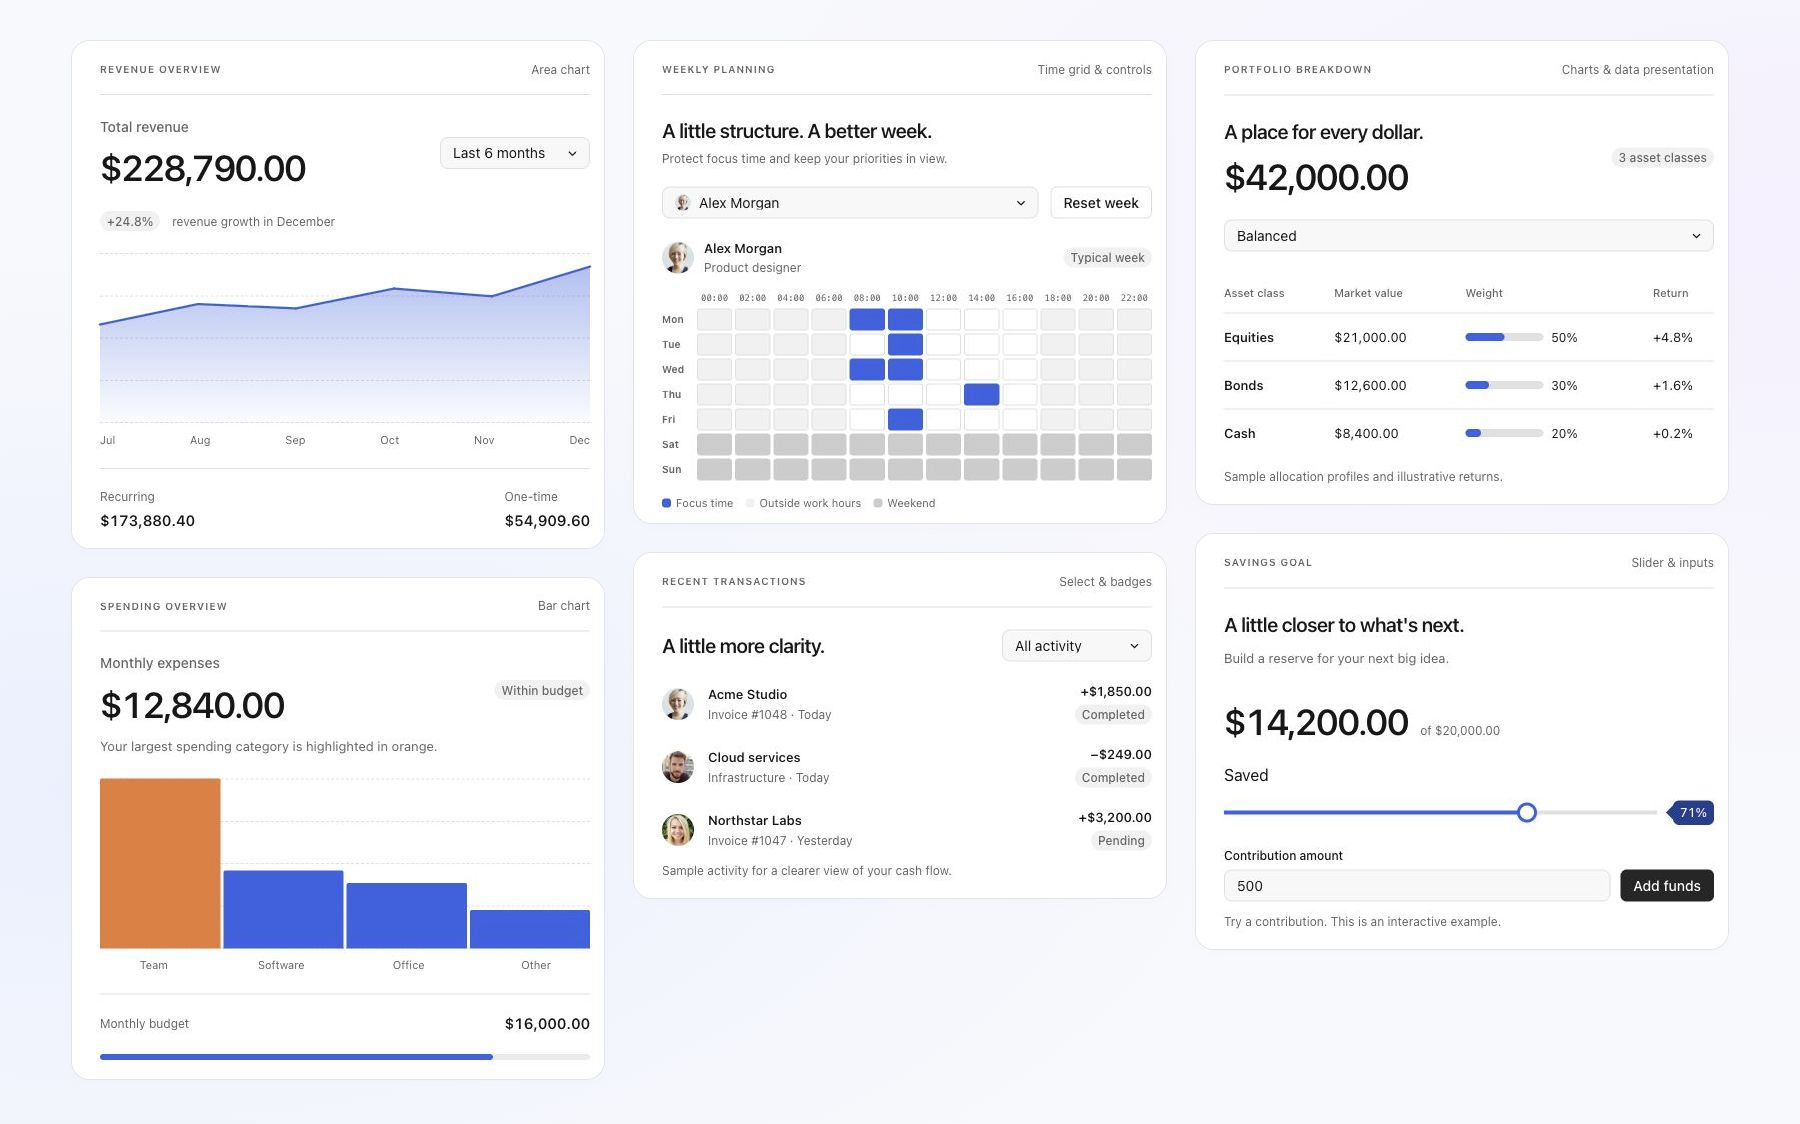
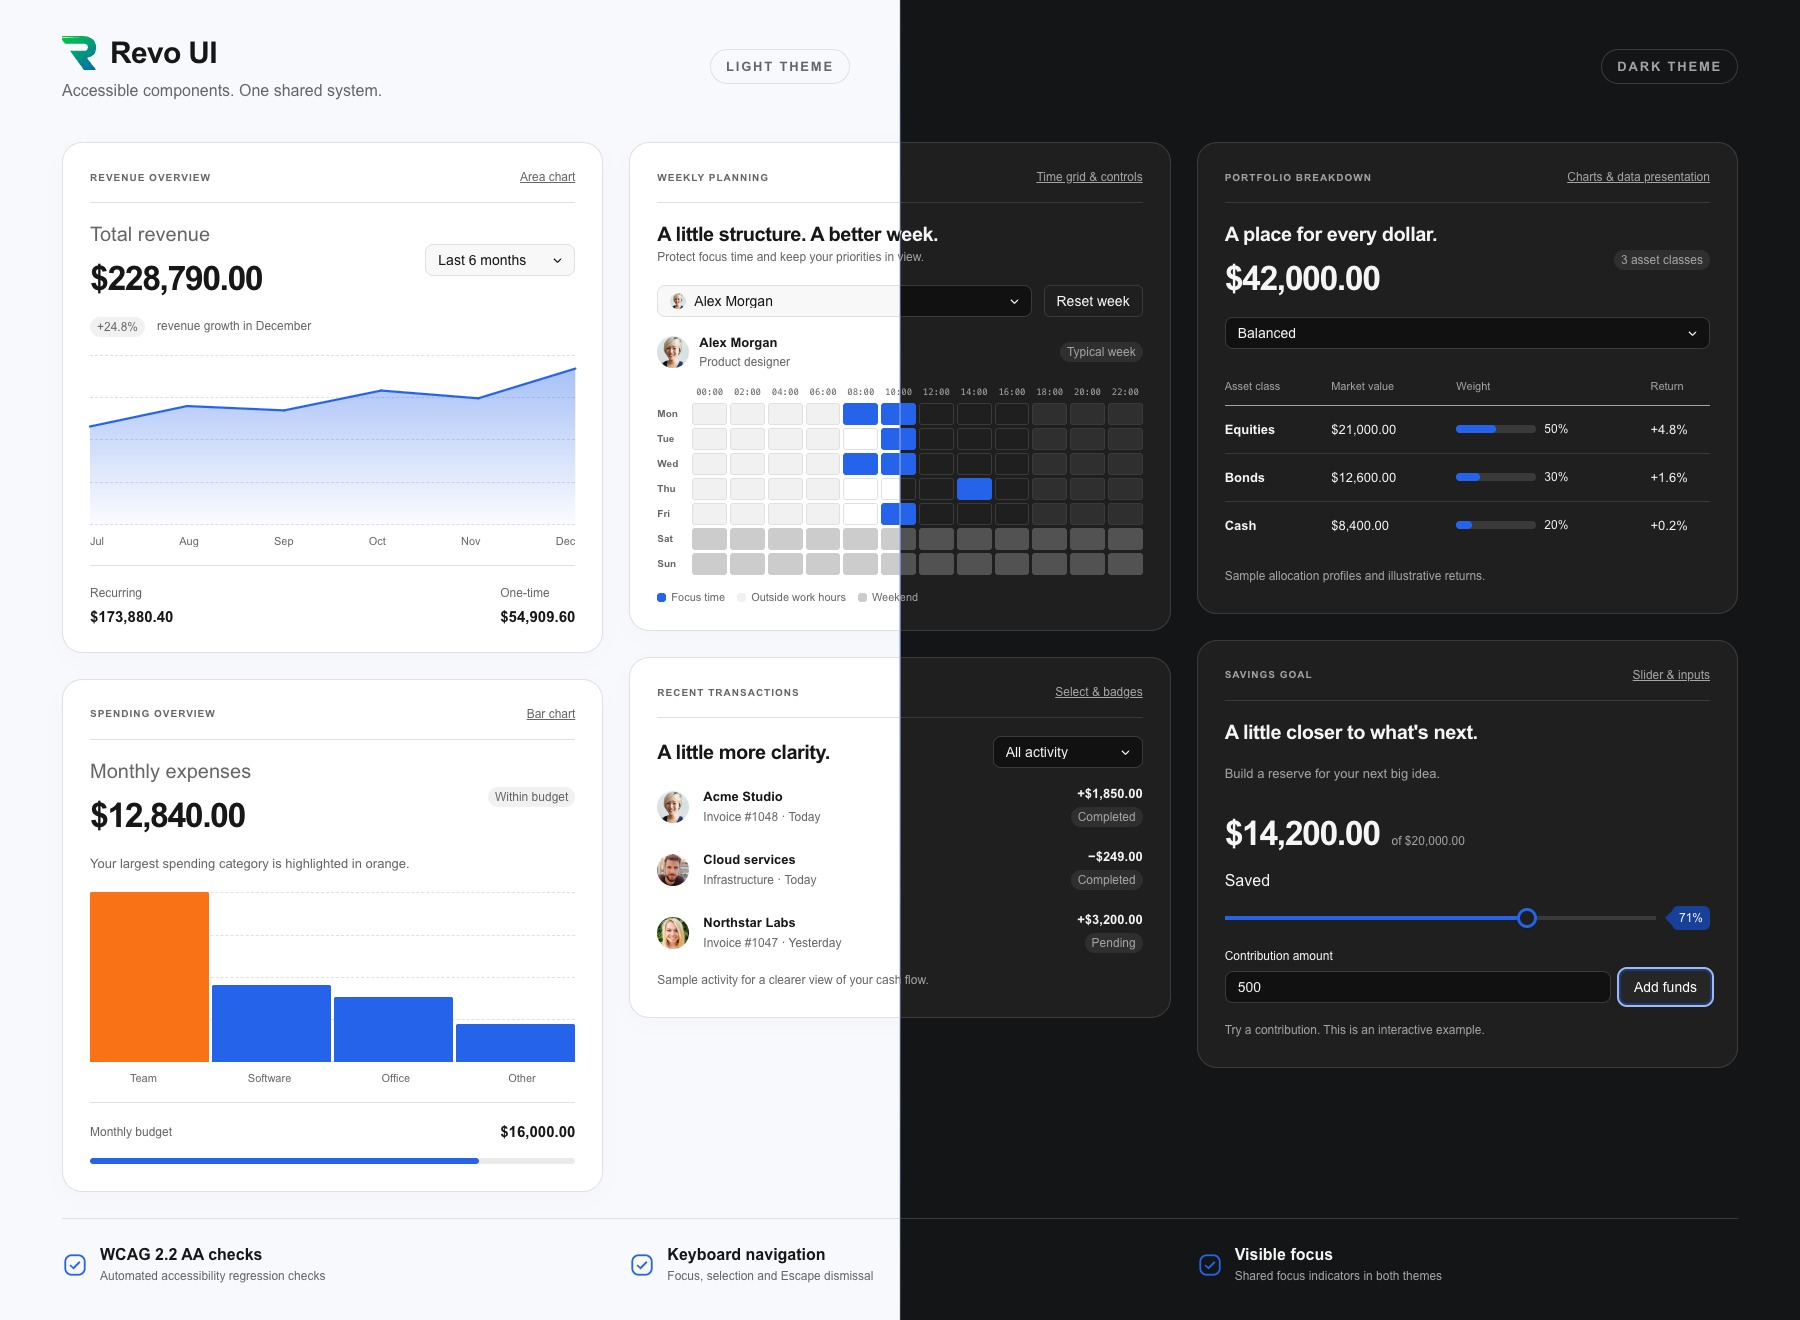
docs: show split themes and accessibility in README preview (#22)

diff --git a/scripts/readme-preview.html b/scripts/readme-preview.html
@@ -1,0 +1,242 @@
+<!doctype html>
+<html lang="en">
+  <head>
+    <meta charset="UTF-8" />
+    <title>Revo UI README preview</title>
+    <link rel="icon" href="/favicon.svg" />
+    <style>
+      html,
+      body {
+        margin: 0;
+        width: 1800px;
+        height: 1320px;
+        overflow: hidden;
+      }
+      .preview-half {
+        position: absolute;
+        inset: 0;
+        width: 1800px;
+        height: 1320px;
+        font-family: Inter, Arial, sans-serif;
+        color: var(--rv-ui-text);
+        background: var(--rv-ui-surface);
+      }
+      .preview-half.light {
+        background: #f7f9fd;
+        clip-path: inset(0 50% 0 0);
+      }
+      .preview-half.dark {
+        background: #141517;
+        clip-path: inset(0 0 0 50%);
+      }
+      .preview-header {
+        height: 132px;
+        padding: 32px 62px;
+        box-sizing: border-box;
+        display: flex;
+        align-items: center;
+        justify-content: space-between;
+      }
+      .preview-brand {
+        display: flex;
+        align-items: center;
+        gap: 14px;
+        font-size: 30px;
+        font-weight: 650;
+        letter-spacing: -0.7px;
+      }
+      .preview-brand img {
+        width: 34px;
+        height: 40px;
+      }
+      .preview-subtitle {
+        font-size: 16px;
+        color: var(--rv-ui-text-muted);
+        margin-top: 9px;
+        letter-spacing: 0;
+        font-weight: 400;
+      }
+      .preview-theme {
+        border: 1px solid var(--rv-ui-border);
+        padding: 9px 15px;
+        border-radius: 24px;
+        color: var(--rv-ui-text-muted);
+        font-size: 13px;
+        letter-spacing: 1.8px;
+        font-weight: 600;
+      }
+      .preview-grid {
+        position: absolute;
+        top: 142px;
+        left: 62px;
+        right: 62px;
+        display: grid;
+        grid-template-columns: repeat(3, minmax(0, 1fr));
+        gap: 26px;
+      }
+      .preview-stack {
+        display: flex;
+        flex-direction: column;
+        gap: 26px;
+        min-width: 0;
+      }
+      .preview-grid .home-widget {
+        border-color: color-mix(in srgb, var(--rv-ui-text) 13%, transparent);
+        padding: 27px;
+        gap: 18px;
+        border-radius: 20px;
+        box-shadow: 0 6px 24px #00000004;
+      }
+      .preview-grid .home-weekly-planner {
+        width: auto;
+        min-width: 0;
+        margin: 0;
+        --rv-matrix-cell-height: 22px;
+      }
+      .preview-grid .planning-summary {
+        display: none;
+      }
+      .preview-grid p,
+      .preview-grid h3 {
+        margin: 0;
+      }
+      .preview-grid .finance-amount {
+        font-size: 34px;
+      }
+      .preview-grid .home-widget h3 {
+        font-size: 20px;
+      }
+      .preview-grid .finance-revenue,
+      .preview-grid .finance-spending {
+        min-height: 414px;
+        box-sizing: border-box;
+      }
+      .preview-grid .finance-spending {
+        min-height: 410px;
+      }
+      .preview-grid .finance-savings {
+        min-height: 405px;
+        box-sizing: border-box;
+      }
+      .preview-grid .finance-allocation {
+        min-height: 415px;
+        box-sizing: border-box;
+      }
+      .preview-footer {
+        position: absolute;
+        bottom: 37px;
+        left: 62px;
+        right: 62px;
+        border-top: 1px solid var(--rv-ui-border);
+        padding-top: 27px;
+        display: grid;
+        grid-template-columns: repeat(3, 1fr);
+        gap: 26px;
+      }
+      .preview-feature {
+        display: flex;
+        align-items: center;
+        gap: 12px;
+        font-size: 16px;
+        font-weight: 600;
+      }
+      .preview-feature svg {
+        width: 26px;
+        height: 26px;
+        color: var(--rv-ui-accent, #2563eb);
+        flex-shrink: 0;
+      }
+      .preview-feature small {
+        display: block;
+        font-size: 12px;
+        font-weight: 400;
+        color: var(--rv-ui-text-muted);
+        margin-top: 5px;
+      }
+      .preview-divider {
+        position: absolute;
+        z-index: 5;
+        left: 899px;
+        top: 0;
+        width: 2px;
+        height: 1320px;
+        background: linear-gradient(#8f9ab244, #91aaffaa 45%, #8f9ab244);
+      }
+      #source {
+        position: absolute;
+        left: -10000px;
+        width: 1800px;
+        height: 1500px;
+        border: 0;
+      }
+    </style>
+  </head>
+  <body>
+    <iframe id="source" title="Gallery components" src="/"></iframe>
+    <div class="preview-divider"></div>
+    <script type="module">
+      const frame = document.getElementById("source");
+      frame.inert = true;
+      await new Promise((resolve) =>
+        frame.addEventListener("load", resolve, { once: true }),
+      );
+      const source = frame.contentDocument;
+      while (!source.querySelector(".finance-savings"))
+        await new Promise((resolve) => setTimeout(resolve, 20));
+      const captureStyle = document.head.querySelector("style");
+      for (const style of source.querySelectorAll(
+        'style, link[rel="stylesheet"]',
+      ))
+        document.head.append(style.cloneNode(true));
+      document.head.append(captureStyle);
+      const check =
+        '<svg viewBox="0 0 24 24" fill="none" stroke="currentColor" stroke-width="1.7"><rect x="3" y="3" width="18" height="18" rx="6"/><path d="m7.5 12 3 3 6-6"/></svg>';
+      const footer = `<footer class="preview-footer">
+      <div class="preview-feature">${check}<span>WCAG 2.2 AA checks<small>Automated accessibility regression checks</small></span></div>
+      <div class="preview-feature">${check}<span>Keyboard navigation<small>Focus, selection and Escape dismissal</small></span></div>
+      <div class="preview-feature">${check}<span>Visible focus<small>Shared focus indicators in both themes</small></span></div>
+    </footer>`;
+      const columns = [
+        [".finance-revenue", ".finance-spending"],
+        [".home-weekly-planner", ".finance-recent"],
+        [".finance-allocation", ".finance-savings"],
+      ];
+      for (const theme of ["light", "dark"]) {
+        const panel = document.createElement("section");
+        panel.className = `rv-ui preview-half ${theme}`;
+        panel.dataset.theme = theme;
+        panel.innerHTML = `<header class="preview-header"><div><div class="preview-brand"><img src="/favicon.svg" alt="">Revo UI</div><div class="preview-subtitle">Accessible components. One shared system.</div></div><span class="preview-theme">DARK THEME</span></header><div class="preview-grid"></div>${footer}`;
+        const grid = panel.querySelector(".preview-grid");
+        for (const selectors of columns) {
+          const stack = document.createElement("div");
+          stack.className = "preview-stack";
+          for (const selector of selectors) {
+            const original = source.querySelector(selector);
+            if (!original)
+              throw new Error(`Missing gallery specimen: ${selector}`);
+            stack.append(original.cloneNode(true));
+          }
+          grid.append(stack);
+        }
+        document.body.append(panel);
+      }
+      // Keep a visible theme label on each side of the center split.
+      const light = document.querySelector(
+        ".preview-half.light .preview-header",
+      );
+      light.insertAdjacentHTML(
+        "beforeend",
+        '<span class="preview-theme" style="position:absolute;left:710px">LIGHT THEME</span>',
+      );
+      // Demonstrate the library's real keyboard focus treatment on the dark half.
+      document
+        .querySelector(".preview-half.dark .finance-contribution button")
+        ?.focus({ preventScroll: true });
+      await document.fonts.ready;
+      await Promise.all(
+        [...document.images].map((image) => image.decode().catch(() => {})),
+      );
+      document.body.dataset.ready = "true";
+    </script>
+  </body>
+</html>

diff --git a/docs/gallery-development.md b/docs/gallery-development.md
@@ -68,3 +68,18 @@ Prerendering waits for rendered headings, canonical metadata, loaded API section
 - `pnpm test:discovery`: verify suite ownership and discovery.
 
 All specs and fixtures live in `tests/browser/`. Product-feedback tests that depend on private products remain in the parent monorepo.
+
+## README preview image
+
+The README image uses real gallery components, split into light and dark themes. `scripts/readme-preview.html` composes the gallery specimens with accessibility annotations; its WCAG label describes automated checks, not a certification.
+
+To regenerate the image, start `pnpm dev --host 127.0.0.1 --port 5187`, then run in another terminal:
+
+```sh
+pnpm exec playwright screenshot --viewport-size="1800,1320" \
+  --wait-for-selector='body[data-ready="true"]' \
+  http://127.0.0.1:5187/scripts/readme-preview.html \
+  docs/assets/components-preview.jpg
+```
+
+Inspect the image for card/footer overlap and missing images before committing it.

diff --git a/README.md b/README.md
@@ -12,7 +12,7 @@ Compose data-rich workspaces with shared controls, pickers, charts, timelines, d
 
 [Live components](https://ui.rv-grid.com/components/buttons/) · [Interactive overview](https://ui.rv-grid.com/) · [Framework guides](https://ui.rv-grid.com/frameworks/) · [RevoGrid](https://rv-grid.com/) · [Pro documentation](https://pro.rv-grid.com/)
 
-[![Revo UI components for financial dashboards and project management](docs/assets/components-preview.jpg)](https://ui.rv-grid.com/)
+[![Revo UI components in light and dark themes, with keyboard navigation, visible focus and WCAG accessibility checks](docs/assets/components-preview.jpg)](https://ui.rv-grid.com/)
 
 ## Get started
 
